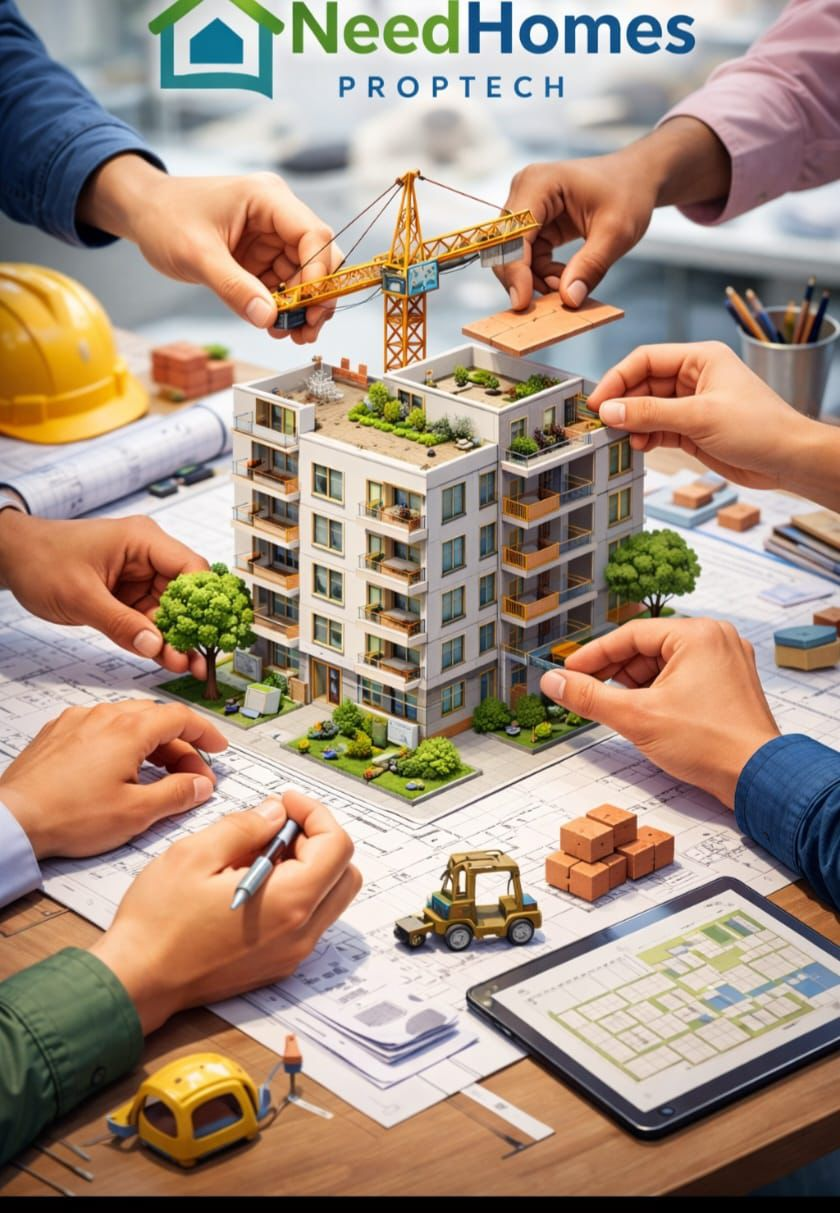
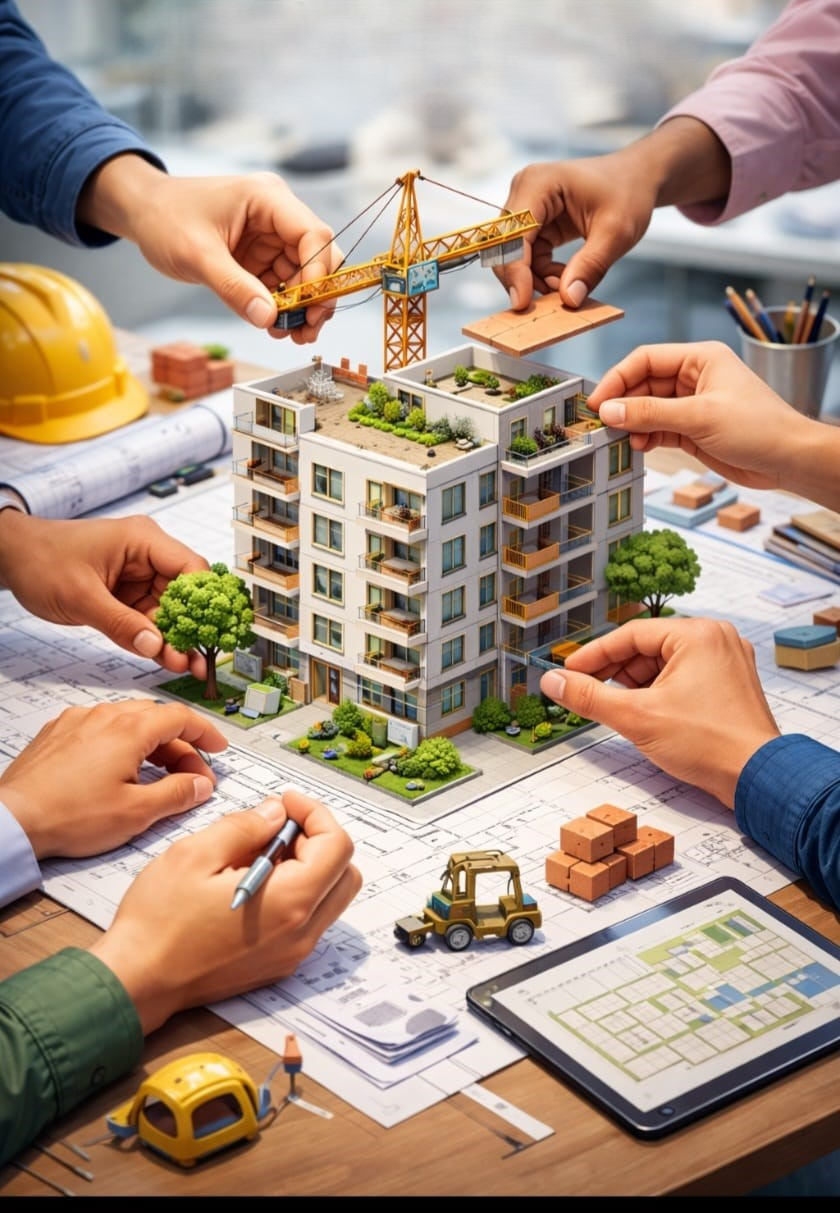
co-dev image

Changed region(s): [[0.1548, 0.0, 0.8357, 0.122]]

diff --git a/src/routes/waitlist.tsx b/src/routes/waitlist.tsx
@@ -1,0 +1,9 @@
+import { createFileRoute } from "@tanstack/react-router";
+
+export const Route = createFileRoute("/waitlist")({
+  component: RouteComponent,
+});
+
+function RouteComponent() {
+  return <div>Hello "/waitlist"!</div>;
+}